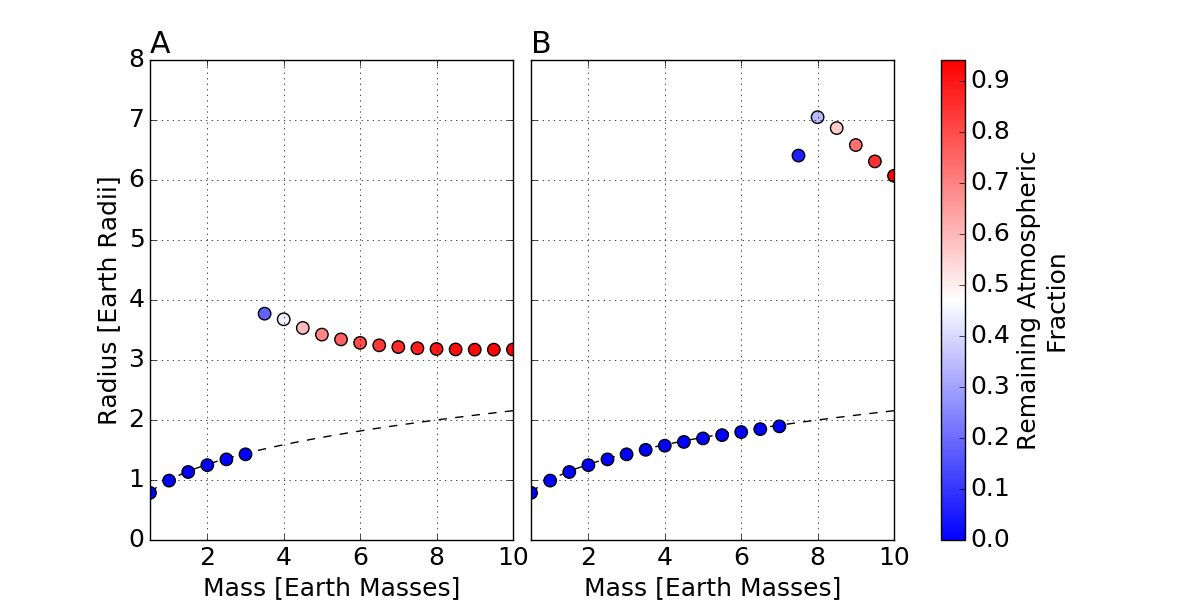
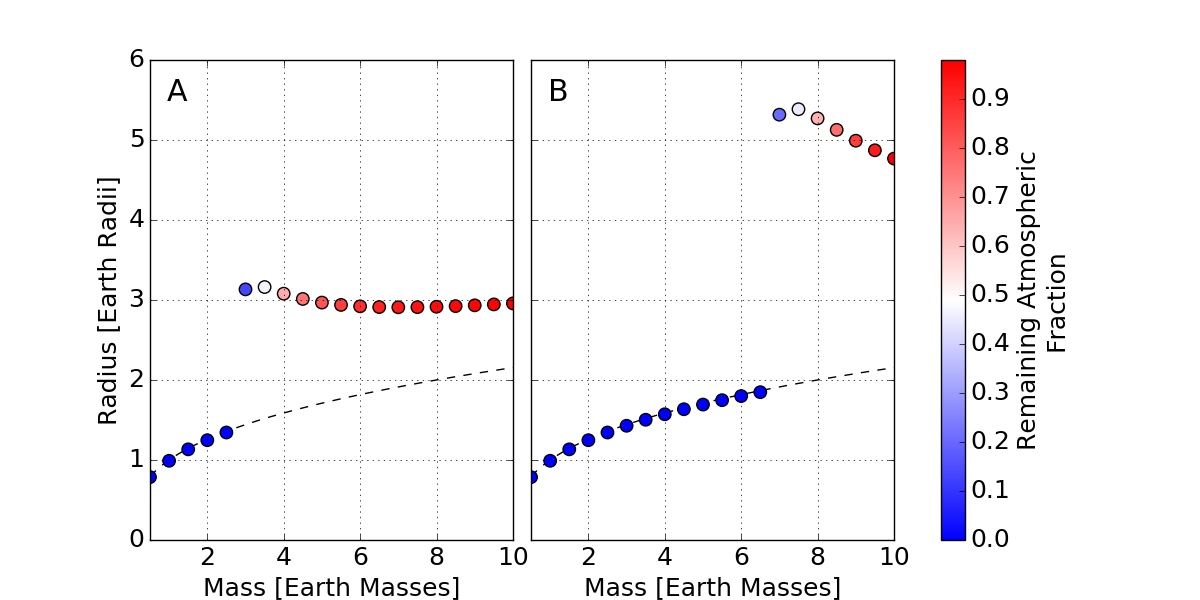
updated figures

diff --git a/AnalyticEqn.py b/AnalyticEqn.py
@@ -10,9 +10,9 @@ R_H2 = 4124.0 #gas constant for H2 [J kg-1 K-1]
 rho = 5510.0 #density of planets [kg m-3]
 GG = 6.672E-11 #Gravitational constant [N m^2 kg^-2]
 T = 880.0 #isothermal temp [K]
-p_xuv = 0.1 #pressure at XUV level [Pa]
+p_xuv = 5.0 #pressure at XUV level [Pa]
 SECONDS_PER_YEAR = 3.154E7 #seconds in a year
-e_xuv = 0.2 #XUV absorption efficiency
+e_xuv = 0.1 #XUV absorption efficiency
 F_xuv = 55.0 #XUV flux at 0.1 AU
 
 def calc_M(mass, time=1.0E8*SECONDS_PER_YEAR, FRAC=True):
@@ -147,7 +147,21 @@ def M_frac_at_100Myr():
     plt.show()
 
 
+def get_vs_sum_new(r_s,T,rho,F_xuv, a, n, p_xuv, R, time):
+    log_val = log(9.0*p_xuv/(4.0*a*GG*pi*rho**2.0*r_s**2.0))
+    v1 = 64.0*a*GG**2.0*pi**3*rho**2*r_s**5
+    v2 = -36.0*F_xuv*GG*n*pi**2*r_s**2*time
+    v3 = 144.0*a*GG*pi**2*R*rho*r_s**3*T
+    v4 = 216.0*a*pi*R**2*r_s*T**2
+    v5 = 162.0*a*R**3*T**3/(GG*rho*r_s)
+    v6 = 144.0*a*GG*pi**2*R*rho*r_s**3*T*log_val
+    v7 = 216.0*a*pi*R**2*r_s*T**2*log_val
+    v8 = 162.0*a*R**3*T**3*log_val/(GG*rho*r_s)
+    v9 = 108.0*a*pi*R**2*r_s*T**2*log_val**2
+    v10 = 81.0*a*R**3*T**3*log_val**2.0/(GG*rho*r_s)
+    v11 = 27.0*a*R**3*T**3*log_val**3/(GG*rho*r_s)
 
+    return v1+v2+v3+v4+v5+v6+v7+v8+v9+v10+v11
 
 def get_vs(r_s, T, rho, F_xuv, a, e_xuv, p_xuv, R, time):
     log_val = log(9.0*p_xuv/(4.0*a*GG*pi*rho**2*r_s**2))
@@ -176,8 +190,9 @@ def rs_cutoff(T, rho, F_xuv, a, e_xuv, p_xuv, R, time):
     guess = R_Earth*4.0 #guess the radius is at 4 Earth radii
 
     def eqn_rs(r_s):
-        v1,v2,v3,v4,v5,v6,v7 = get_vs(r_s, T, rho, F_xuv, a, e_xuv, p_xuv, R, time)
-        return v1+v2+v3+v4+v5+v6+v7
+        #v1,v2,v3,v4,v5,v6,v7 = get_vs(r_s, T, rho, F_xuv, a, e_xuv, p_xuv, R, time)
+        #return v1+v2+v3+v4+v5+v6+v7
+        return get_vs_sum_new(r_s, T, rho, F_xuv, a, e_xuv, p_xuv, R, time)
 
     result = fsolve(eqn_rs, guess)
 
@@ -191,11 +206,11 @@ EFFI = 4 #XUV absorption efficiency
 PRES = 5 #pressure where XUV is absorbed
 GASC = 6 #specific gas constant
 TIME = 7 #XUV saturation time
-param_labels = {0: "Temperature [K]",
-                1: "Density [g cm$^{-3}$]",
+param_labels = {0: "Isothermal Temperature [K]",
+                1: "Core Density [g cm$^{-3}$]",
                 2: "F$_{XUV}$ [W m$^{-2}$]",
-                3: "Atmospheric Mass Fraction",
-                4: "XUV Absorption Efficiency",
+                3: "Initial Atmospheric Mass Fraction",
+                4: "$\eta$",
                 5: "p$_{XUV}$ [Pa]",
                 6: "Specific Gas Constant",
                 7: "XUV Saturation Time [Myr]"}
@@ -221,8 +236,8 @@ def vary_parameter(param_min, param_max, param_type, count=100, save_fig=False,\
     rho = 5510.0
     F_xuv = 55.0
     a = 0.03
-    e_xuv = 0.2
-    p_xuv = 0.1
+    e_xuv = 0.1
+    p_xuv = 5.0 
     R = R_H2
     time = 1.0E8*SECONDS_PER_YEAR
 
@@ -251,7 +266,6 @@ def vary_parameter(param_min, param_max, param_type, count=100, save_fig=False,\
             results[i] = rs_cutoff(T, rho, param, a, e_xuv, p_xuv, R, time)
             analytic[i] = analytic_eqn(T, param, a)
 
-
         if param_type == ATMO:
             results[i] = rs_cutoff(T, rho, F_xuv, param, e_xuv, p_xuv, R, time)
             analytic[i] = analytic_eqn(T, F_xuv, param)
@@ -272,11 +286,14 @@ def vary_parameter(param_min, param_max, param_type, count=100, save_fig=False,\
 
     plt.plot(param_vals, results/R_Earth)
     plt.xlabel(param_labels[param_type])
-    plt.ylabel("R$_{s}$ [Earth Masses]")
+    plt.ylabel("R$_{s}$ [R$_{\oplus}$]")
     plt.grid()
 
+    plt.xlim(param_min,param_max)
+
     if param_type == TEMP or param_type == FLUX or param_type == ATMO:
-        plt.plot(param_vals, analytic/R_Earth, "g--")
+        #plt.plot(param_vals, analytic/R_Earth, "g--") #ORL TODO
+        were = 0 #bs parameter since I'm not ready to delete this yet
 
     if param_type == PRES:
         plt.xscale('log')
@@ -299,25 +316,89 @@ def all_params_plotted():
     vary_parameter(500.0, 3000.0, TEMP, show_fig=False)
 
     plt.sca(axs[0,1])
-    vary_parameter(3.0,8.0, DENS, show_fig=False)
+    vary_parameter(5.0,8.0, DENS, show_fig=False)
 
     plt.axes(axs[1,0])
-    vary_parameter(10,200,FLUX, show_fig=False)
+    vary_parameter(50,200,FLUX, show_fig=False)
 
     plt.axes(axs[1,1])
-    vary_parameter(0.003, 0.06, ATMO, show_fig=False)
+    vary_parameter(0.01, 0.1, ATMO, show_fig=False)
 
     plt.axes(axs[2,0])
-    vary_parameter(0.001,1000, PRES, show_fig=False)
+    vary_parameter(0.1,10, PRES, show_fig=False)
 
     plt.axes(axs[2,1])
-    vary_parameter(200,R_H2, GASC, show_fig=False)
+    vary_parameter(2500,R_H2, GASC, show_fig=False)
 
     plt.axes(axs[3,0])
-    vary_parameter(10,200, TIME, show_fig=False)
+    vary_parameter(50,200, TIME, show_fig=False)
 
-    plt.delaxes(axs[3,1])
+    #plt.delaxes(axs[3,1])
+    plt.axes(axs[3,1])
+    vary_parameter(0.1,0.4, EFFI, show_fig=False)
+
     plt.show()
+
+def rs_histogram():
+    """
+    Calculate the r_s cutoff across a range of parameters and plot the result
+    in a histogram
+    """
+
+    num_steps = 5 
+    r_vals = []
+
+    Temps = np.linspace(500,3000,num_steps)
+    Densities = np.linspace(5,8,num_steps)
+    Fluxes = np.linspace(50,200, num_steps)
+    Efficiencies = np.linspace(0.1,0.4, num_steps)
+    Atmos_mass_fracs = np.linspace(0.01, 0.1, num_steps)
+    Pressures = np.linspace(0.1, 10, num_steps)
+    Gas_consts = np.linspace(2500,4157,num_steps)
+    Times = np.linspace(50, 200, num_steps)
+
+    min_r = 1000.0 #huge number
+    max_r = 0
+
+    for T in Temps:
+        for rho in Densities:
+            for F in Fluxes:
+                for n in Efficiencies:
+                    for a in Atmos_mass_fracs:
+                        for p in Pressures:
+                            for R in Gas_consts:
+                                for t in Times:
+                                    r = rs_cutoff(T, rho*1000.0, F, a, n, p, R, \
+                                            time=1.0E8*SECONDS_PER_YEAR)
+                                    r = r/R_Earth
+
+                                    if r < min_r:
+                                        min_r = r
+                                    if r > max_r:
+                                        max_r = r
+
+                                    r_vals.append(r)
+
+
+    #sort the r values into bins
+    bins = np.linspace(min_r, max_r, 100)
+    counts = np.zeros(len(bins))
+
+    for r in r_vals:
+        for i in range(len(bins)):
+            if r < bins[i]:
+                counts[i] += 1
+                break
+
+    plt.bar(bins,counts, width=0.025)
+    plt.xlabel("Radius Cutoff [R$_{Earth}$]")
+    plt.ylabel("Count")
+    #plt.gca().yaxis.set_visible(False)
+    plt.show()
+    
+    return
+
+
 
 #vary_parameter(500.0, 3000.0, TEMP)
 #vary_parameter(3.0,8.0, DENS)
@@ -327,7 +408,8 @@ def all_params_plotted():
 #vary_parameter(200,R_H2, GASC)
 #vary_parameter(10,1000, TIME)
 
-all_params_plotted()
+all_params_plotted() #ORL use this one in paper
+#rs_histogram() #ORL use this one in paper
 
 
 #r = rs_cutoff(T, rho, F_xuv, 0.03, e_xuv, p_xuv, R_H2, time=1.0E8*SECONDS_PER_YEAR)

diff --git a/SimpleModel.py b/SimpleModel.py
@@ -23,7 +23,7 @@ kB = 1.380662E-23        #Boltzmann's constant [J K^-1]
 GG = 6.672E-11           #Gravitational constant [N m^2 kg^-2]
 SIGMA = 5.6704E-8       #Stefan-Boltzmann constant [W m^-2 K^-4]
 m_H = 1.66E-27          #Mass of H atom [kg]
-e_xuv = 0.2 #typically between 0.1 and 0.3
+e_xuv = 0.1 #typically between 0.1 and 0.3
 AU = 1.49598E11 #AU in m
 R_H2 = 4124.0 #gas constant for H2 [J kg-1 K]
 R_AIR = 287.0 #gas constant for air [J kg-1 K]
@@ -91,7 +91,7 @@ def total_mass_loss(time, mass, dist):
     loss - total mass loss [kg]
     """
 
-    e_xuv = 0.2
+    e_xuv = 0.1
     rho = 5510.0 #density in [kg m-3]
     flux = calculate_xuv_lammer2012(dist)
 
@@ -178,7 +178,7 @@ def calculate_loss_rate(mass, core_rad, rad_1bar, dist, star_mass, time):
     #but we're not actually doing that, it's calculated
     r_xuv = rad_1bar
 
-    k_tide = calculate_ktide(mass, star_mass, dist, core_rad)
+    k_tide = 1.0 #calculate_ktide(mass, star_mass, dist, core_rad)
 
     #Equation 5 from Luger et al. (2015)
     #dMdt = (e_xuv*pi*F_xuv*core_rad*r_xuv**2.0)/(GG*mass*k_tide)
@@ -235,7 +235,7 @@ def plot_radius_over_time(time, radius, r_s):
     r_s - the surface radius of the core
     """
 
-    plt.subplot(311,aspect="equal")
+    plt.subplot(211,aspect="equal")
 
     #find the 5 points
     step = len(time)/4 #3 interior points, both ends
@@ -313,7 +313,7 @@ def plot_radius_over_time(time, radius, r_s):
     ax.set_yticklabels([str(abs(x)) for x in ax.get_yticks()])
 
     plt.ylabel("$R_{XUV}$\n[Core Radii]")
-    plt.title("A", loc="left")
+    plt.title("A", y=0.7, x=0.975)
 
 
 def plot_mass_over_time(time, atmos_mass):
@@ -326,11 +326,13 @@ def plot_mass_over_time(time, atmos_mass):
     """
 
     time_myr = time/SECONDS_PER_YEAR/1.0E6 #time in Myr
-    plt.subplot(312)
+    plt.subplot(212)
     plt.plot(time_myr, atmos_mass/atmos_mass[0])
     plt.xlim(0,time_myr[-1])
+    #plt.xticks(np.arange(0,time_myr[-1]+1,1))
+    plt.minorticks_on()
     plt.ylabel("Atmosphere Mass\nFraction", multialignment="center")
-    plt.title("B", loc="left")
+    plt.title("B", y=0.85, x=0.975)
 
 def plot_density_over_time(time,atmos_mass,core_mass,radius):
     """
@@ -359,7 +361,7 @@ def plot_density_over_time(time,atmos_mass,core_mass,radius):
     
     
 def planet_over_time(mass, dist, T, core_mass, core_rho, R_gas,\
-        star_mass, timestep=1.0E6, duration=1.0E8, p_r=0.1):
+        star_mass, timestep=1.0E6, duration=1.0E8, p_r=5.0):
     """
      Calculate the planet over time taking into account the hydrodynamic escape.
 
@@ -374,7 +376,7 @@ def planet_over_time(mass, dist, T, core_mass, core_rho, R_gas,\
     timestep - the timestep to use in the simulation, given in years
     duration - the duration of the simulation in years
     p_r = the pressure to calculate the radius to (defaults to base of 
-          thermosphere, which is at ~0.1 Pa [See Erkaev (2013)])
+          thermosphere, which is at 5 Pa [See Owen & Jackson (2012)])
 
     Returns:
     time - the array of time values
@@ -453,12 +455,13 @@ def plot_planet_over_time(mass, dist, T, core_mass, core_rho, R_gas,\
     """
 
     time, atmos_mass, radius, r_s = planet_over_time(mass,dist,T,core_mass,\
-            core_rho,R_gas,star_mass,timestep,duration, p_r=0.1)
+            core_rho,R_gas,star_mass,timestep,duration, p_r=5.0)
 
-    plt.subplots_adjust(hspace=0.4)
+    plt.subplots_adjust(hspace=0)
     plot_radius_over_time(time, radius, r_s)
     plot_mass_over_time(time, atmos_mass)
-    plot_density_over_time(time,atmos_mass,core_mass,radius)
+    #plot_density_over_time(time,atmos_mass,core_mass,radius) #IMPORTANT if 
+    #uncommented change subplot numbers back to 311 and 312 in previous funcs
     plt.xlabel("Time [Myr]")
     plt.show()
 
@@ -814,7 +817,7 @@ def plot_escape_parameter_space_side_by_side():
     ax1.plot(line_masses/M_Earth, line_radii_earth/R_Earth, "k--", zorder=1)
     sc1 = ax1.scatter(m2000/M_Earth,r2000/R_Earth, c=am2000, cmap=cm, s=80.0, zorder=2)
     ax1.set_xlabel("Mass [Earth Masses]")
-    ax1.set_title("A", loc="left")
+    ax1.set_title("A", y=0.9, x=0.075)
     ax1.set_ylabel("Radius [Earth Radii]")
     ax1.set_xlim(min_mass/M_Earth,max_mass/M_Earth)
     ax1.xaxis.grid()
@@ -823,7 +826,7 @@ def plot_escape_parameter_space_side_by_side():
     ax2.plot(line_masses/M_Earth, line_radii_earth/R_Earth, "k--", zorder=1)
     sc2 = ax2.scatter(m3000/M_Earth,r3000/R_Earth, c=am3000, cmap=cm, s=80.0, zorder=2)
     ax2.set_xlabel("Mass [Earth Masses]")
-    ax2.set_title("B", loc="left")
+    ax2.set_title("B", y=0.9, x=0.075)
     ax2.set_xlim(min_mass/M_Earth,max_mass/M_Earth)
     plt.grid()
 
@@ -914,7 +917,7 @@ def plot_rxuv_denominator():
              line_label = "%3.0f Myr"%(times[ind]/SECONDS_PER_YEAR/1E6)
         plt.plot(masses/M_Earth,y_array, label=line_label)
     plt.xlabel("Mass [Earth Masses]")
-    plt.ylabel("$R^{2}_{XUV}$ [Earth Radii]")
+    plt.ylabel("$R^{3}_{XUV}$ [Earth Radii]")
     plt.ylim(0,25)
     plt.xlim(1.5,10)
     plt.legend(loc="bottom right")
@@ -949,8 +952,8 @@ def plot_total_loss_over_time():
 
 
 #plot_escape_parameter_space(DUR=1.0E8, T=1000.0)
-#plot_rxuv_denominator() #ORL use this one for paper
-plot_escape_parameter_space_side_by_side() #ORL use this one for paper
+plot_rxuv_denominator() #ORL use this one for paper
+#plot_escape_parameter_space_side_by_side() #ORL use this one for paper
 #animate_loss(SAVE_TO_FILE=True)
 
 #plot_radius_mass_raltionship()
